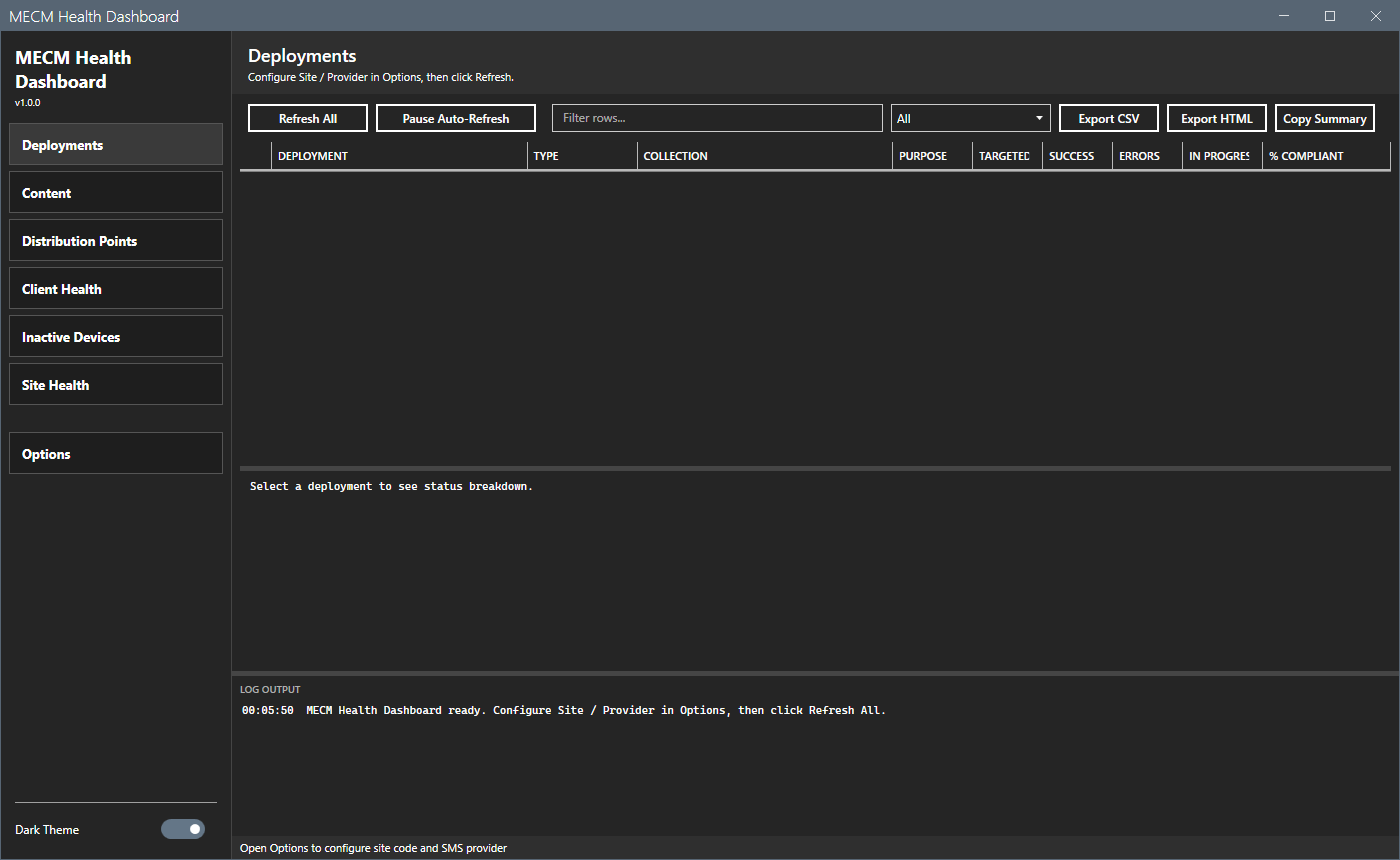
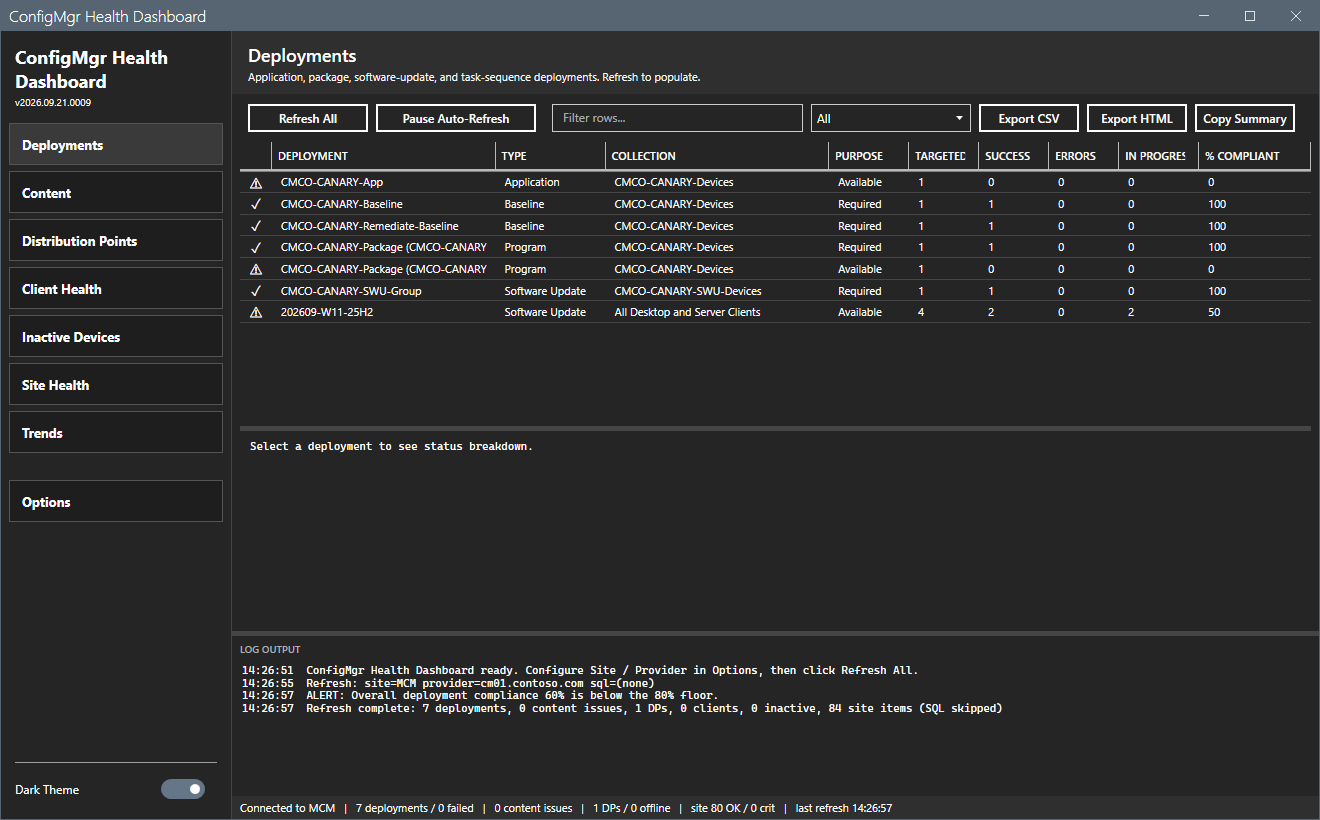
Use the launcher site code and provider when none is saved; update the screenshot; 2026.09.21.0009

diff --git a/CHANGELOG.md b/CHANGELOG.md
@@ -3,6 +3,16 @@
 All notable changes to ConfigMgr Health Dashboard are documented in this
 file.
 
+## [2026.09.21.0009] - 2026-09-21
+
+### Fixed
+
+- Use the site code and provider from the suite launcher when the tool has none saved.
+
+### Changed
+
+- Update the README screenshot.
+
 ## [2026.09.21.0008] - 2026-09-21
 
 ### Changed
